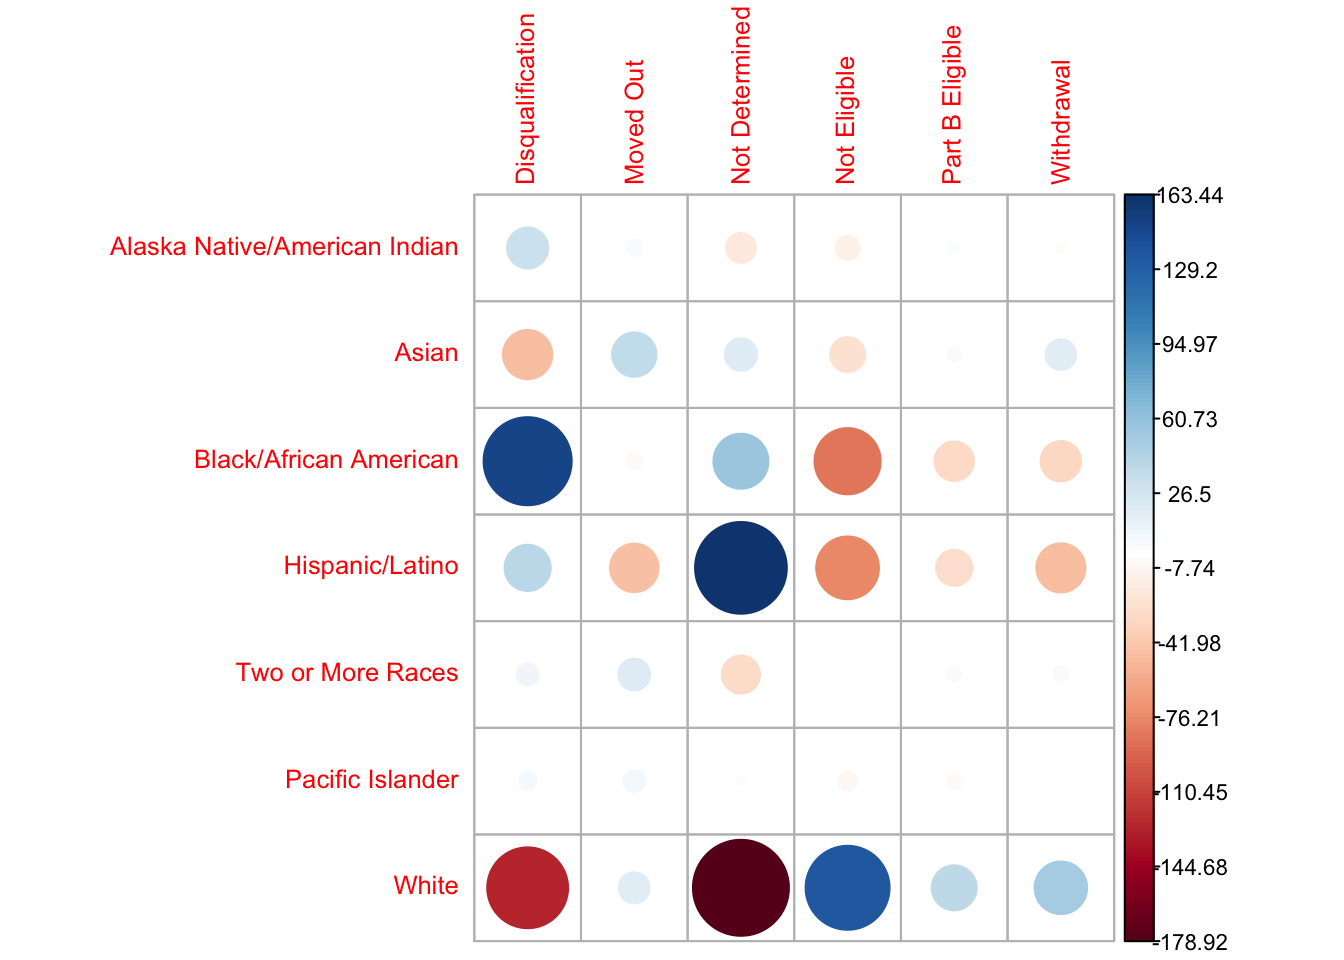
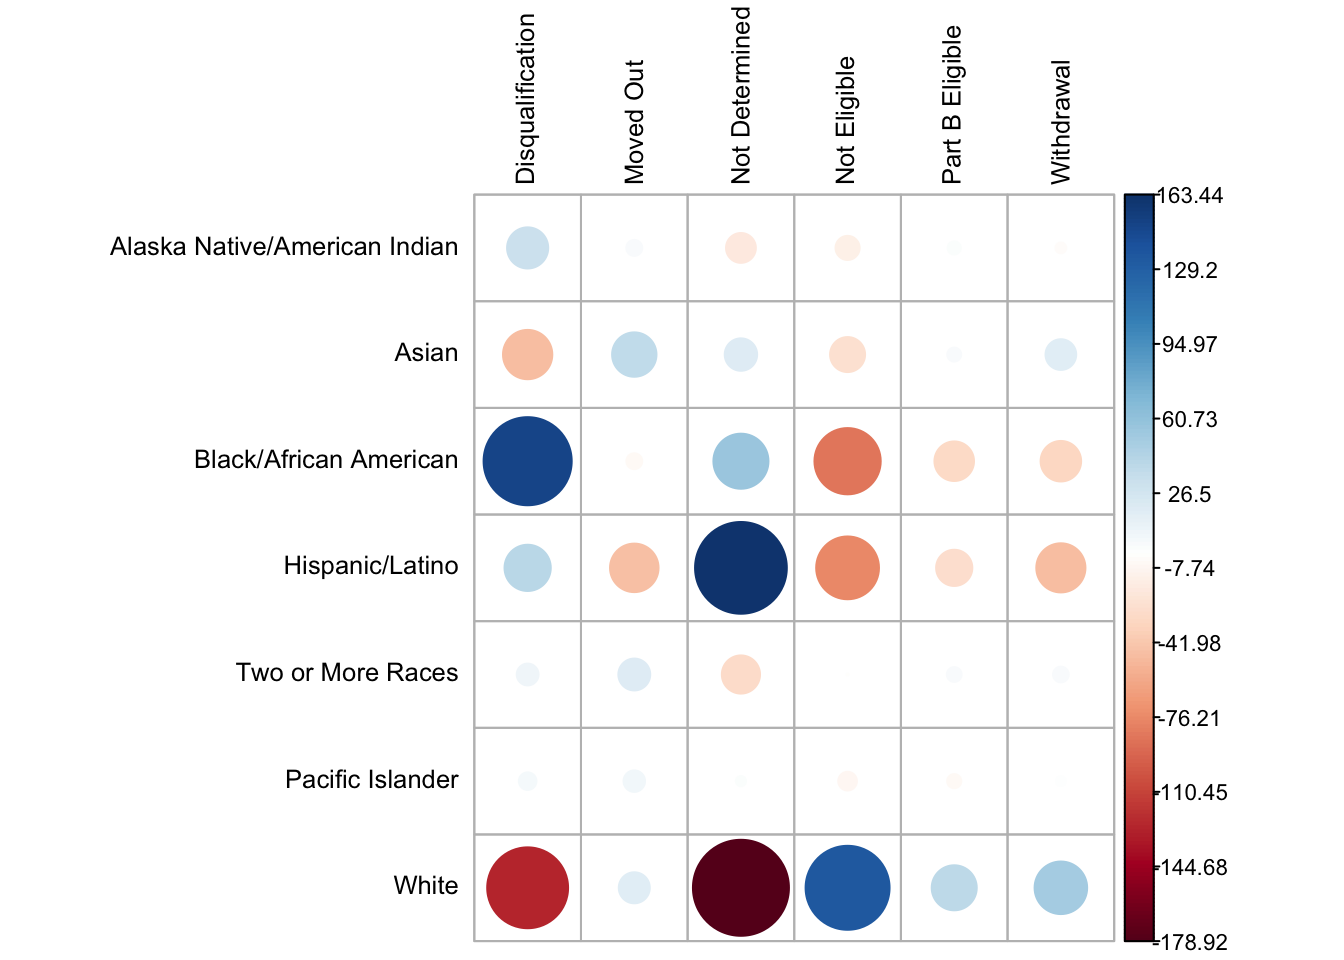
Minor changes - viz_3 corrplot() black letters etc.

diff --git a/docs/index.html b/docs/index.html
@@ -200,7 +200,7 @@ window.Quarto = {
 
 <div class="quarto-listing quarto-listing-container-default" id="listing-listing">
 <div class="list quarto-listing-default">
-<div class="quarto-post image-right" data-index="0" data-categories="ZGF0YSUyMHZpc3VhbGl6YXRpb24lMkNjb2RlJTJDYW5hbHlzaXM=" data-listing-date-sort="1740988800000" data-listing-file-modified-sort="1741229969576" data-listing-date-modified-sort="NaN" data-listing-reading-time-sort="7" data-listing-word-count-sort="1243">
+<div class="quarto-post image-right" data-index="0" data-categories="ZGF0YSUyMHZpc3VhbGl6YXRpb24lMkNjb2RlJTJDYW5hbHlzaXM=" data-listing-date-sort="1740988800000" data-listing-file-modified-sort="1741304493953" data-listing-date-modified-sort="NaN" data-listing-reading-time-sort="7" data-listing-word-count-sort="1219">
 <div class="thumbnail">
 <p><a href="./posts/viz_4/index.html" class="no-external"></a></p><a href="./posts/viz_4/index.html" class="no-external">
 <p><img loading="lazy" src="./posts/viz_4/or_us_white_ci_timesnewroman.png" class="thumbnail-image"></p>
@@ -239,10 +239,10 @@ Maiko Hata
 </a>
 </div>
 </div>
-<div class="quarto-post image-right" data-index="1" data-categories="dmlzdWFsaXphdGlvbiUyQ2NvZGUlMkNhbmFseXNpcw==" data-listing-date-sort="1740729600000" data-listing-file-modified-sort="1741229969575" data-listing-date-modified-sort="NaN" data-listing-reading-time-sort="4" data-listing-word-count-sort="634">
+<div class="quarto-post image-right" data-index="1" data-categories="dmlzdWFsaXphdGlvbiUyQ2NvZGUlMkNhbmFseXNpcw==" data-listing-date-sort="1740729600000" data-listing-file-modified-sort="1741303913930" data-listing-date-modified-sort="NaN" data-listing-reading-time-sort="4" data-listing-word-count-sort="640">
 <div class="thumbnail">
 <p><a href="./posts/viz_3/index.html" class="no-external"></a></p><a href="./posts/viz_3/index.html" class="no-external">
-<p><img loading="lazy" src="./posts/viz_3/race and exit corrplot.png" class="thumbnail-image"></p>
+<p><img loading="lazy" src="./posts/viz_3/race and exit corrplot.jpg" class="thumbnail-image"></p>
 </a><p><a href="./posts/viz_3/index.html" class="no-external"></a></p>
 </div>
 <div class="body">
@@ -278,7 +278,7 @@ Maiko Hata
 </a>
 </div>
 </div>
-<div class="quarto-post image-right" data-index="2" data-categories="dmlzdWFsaXphdGlvbiUyQ2NvZGUlMkNhbmFseXNpcw==" data-listing-date-sort="1740643200000" data-listing-file-modified-sort="1741232524809" data-listing-date-modified-sort="NaN" data-listing-reading-time-sort="9" data-listing-word-count-sort="1682">
+<div class="quarto-post image-right" data-index="2" data-categories="dmlzdWFsaXphdGlvbiUyQ2NvZGUlMkNhbmFseXNpcw==" data-listing-date-sort="1740643200000" data-listing-file-modified-sort="1741303473193" data-listing-date-modified-sort="NaN" data-listing-reading-time-sort="9" data-listing-word-count-sort="1655">
 <div class="thumbnail">
 <p><a href="./posts/viz_2/index.html" class="no-external"></a></p><a href="./posts/viz_2/index.html" class="no-external">
 <p><img loading="lazy" src="./posts/viz_2/plot_cc_2.jpg" class="thumbnail-image"></p>
@@ -317,7 +317,7 @@ Maiko Hata
 </a>
 </div>
 </div>
-<div class="quarto-post image-right" data-index="3" data-categories="dmlzdWFsaXphdGlvbiUyQ2NvZGUlMkNhbmFseXNpcw==" data-listing-date-sort="1740556800000" data-listing-file-modified-sort="1741229969570" data-listing-date-modified-sort="NaN" data-listing-reading-time-sort="2" data-listing-word-count-sort="297">
+<div class="quarto-post image-right" data-index="3" data-categories="dmlzdWFsaXphdGlvbiUyQ2NvZGUlMkNhbmFseXNpcw==" data-listing-date-sort="1740556800000" data-listing-file-modified-sort="1741303287478" data-listing-date-modified-sort="NaN" data-listing-reading-time-sort="2" data-listing-word-count-sort="278">
 <div class="thumbnail">
 <p><a href="./posts/viz_1/index.html" class="no-external"></a></p><a href="./posts/viz_1/index.html" class="no-external">
 <p><img loading="lazy" src="./posts/viz_1/kable.jpg" class="thumbnail-image"></p>
@@ -342,7 +342,7 @@ analysis
 </div>
 </div>
 <div class="listing-description">
-<a href="./posts/viz_1/index.html" class="no-external">This is the first step in my visualization journey. I created a simple kable table using data from the Office of Special Education Programs (OSEP).</a>
+<a href="./posts/viz_1/index.html" class="no-external">This is the first step in my visualization series. I created a simple kable table using data from the Office of Special Education Programs (OSEP).</a>
 </div>
 </div>
 <div class="metadata">
@@ -356,7 +356,7 @@ Maiko Hata
 </a>
 </div>
 </div>
-<div class="quarto-post image-right" data-index="4" data-categories="bmV3cyUyQ2NvZGUlMkNhbmFseXNpcw==" data-listing-date-sort="1740384000000" data-listing-file-modified-sort="1741229969569" data-listing-date-modified-sort="NaN" data-listing-reading-time-sort="2" data-listing-word-count-sort="225">
+<div class="quarto-post image-right" data-index="4" data-categories="bmV3cyUyQ2NvZGUlMkNhbmFseXNpcw==" data-listing-date-sort="1740384000000" data-listing-file-modified-sort="1741303982509" data-listing-date-modified-sort="NaN" data-listing-reading-time-sort="2" data-listing-word-count-sort="225">
 <div class="thumbnail">
 <p><a href="./posts/viz_0/index.html" class="no-external"></a></p><a href="./posts/viz_0/index.html" class="no-external">
 <p><img loading="lazy" src="./posts/viz_0/family_of_four.jpg" class="thumbnail-image"></p>

diff --git a/docs/posts/viz_3/index.html b/docs/posts/viz_3/index.html
@@ -188,7 +188,7 @@ pre > code.sourceCode > span > a:first-child::before { text-decoration: underlin
 <p>Here, I performed a chi-square test and used standardized residuals to interpret the results. I visualized the findings with <code>corrplot()</code>, one of my favorite packages.</p>
 <p>Chi-square test is used to determine if the distribution of a sample is different from what we would expect by chance (Agresti, 2013). It helps researchers understand whether the differences between observed and expected counts are likely due to random variation (Morgan et al., 2020). Standardized residuals provide additional insight by showing how much the observed counts differ from the expected ones, considering the influence of independent variables on dependent variables (Chatterjee, 2011).</p>
 <p>This is when I truly understood the power and flexibility of R, as it allowed me to present the story of the data through clear and intuitive visualizations.</p>
-<p>Do you notice how group 2 is overrepresented and group 7 is underrepresented in Attempts to Contact Unsuccessful (“Disqualification”)? Also, group 7 is noticeably underrepresented in Part B Eligibility Not Determined (“Not Determined”), but the same group is overrepresented in Complete or Not Eligible (“Not Eligible”). Let’s take a look at who these groups are.</p>
+<p>Do you notice how group 2 is over-represented and group 7 is under-represented in Attempts to Contact Unsuccessful (“Disqualification”)? Also, group 7 is noticeably underrepresented in Part B Eligibility Not Determined (“Not Determined”), but the same group is over-represented in Complete or Not Eligible (“Not Eligible”). Let’s see who these groups are.</p>
 <p>Here is my first attempt. Even though it’s a bit messy, I was really impressed that I could run this analysis and create the visualization so easily.</p>
 <div class="cell">
 <details class="code-fold">
@@ -238,16 +238,22 @@ pre > code.sourceCode > span > a:first-child::before { text-decoration: underlin
 </div>
 </div>
 </div>
-<p>I finally settled on this version after moving the label numbers a bit further out to make them easier to read. I also reordered the exit categories alphabetically at the top, which makes the chart look a bit different from my original attempt.</p>
+<p>I finally settled on this version, where I:</p>
+<ul>
+<li><p>Changed the letter color to black as the red was unnecessarily alarming</p></li>
+<li><p>Moved the label numbers further out for easier reading</p></li>
+<li><p>Reordered the exit categories alphabetically.</p></li>
+</ul>
 <div class="cell">
 <details class="code-fold">
 <summary>Code</summary>
 <div class="sourceCode cell-code" id="cb4"><pre class="sourceCode r code-with-copy"><code class="sourceCode r"><span id="cb4-1"><a href="#cb4-1" aria-hidden="true" tabindex="-1"></a><span class="fu">corrplot</span>(chi_results<span class="sc">$</span>stdres, </span>
 <span id="cb4-2"><a href="#cb4-2" aria-hidden="true" tabindex="-1"></a>         <span class="at">is.cor =</span> <span class="cn">FALSE</span>, </span>
 <span id="cb4-3"><a href="#cb4-3" aria-hidden="true" tabindex="-1"></a>         <span class="at">tl.cex =</span> <span class="fl">0.8</span>, </span>
-<span id="cb4-4"><a href="#cb4-4" aria-hidden="true" tabindex="-1"></a>         <span class="at">cl.cex =</span> <span class="fl">0.7</span>,     </span>
-<span id="cb4-5"><a href="#cb4-5" aria-hidden="true" tabindex="-1"></a>         <span class="at">cl.offset =</span> <span class="dv">1</span>,    </span>
-<span id="cb4-6"><a href="#cb4-6" aria-hidden="true" tabindex="-1"></a>         <span class="at">cl.ratio =</span> <span class="fl">0.2</span>)    </span></code><button title="Copy to Clipboard" class="code-copy-button"><i class="bi"></i></button></pre></div>
+<span id="cb4-4"><a href="#cb4-4" aria-hidden="true" tabindex="-1"></a>         <span class="at">tl.col =</span> <span class="st">"black"</span>, </span>
+<span id="cb4-5"><a href="#cb4-5" aria-hidden="true" tabindex="-1"></a>         <span class="at">cl.cex =</span> <span class="fl">0.7</span>,     </span>
+<span id="cb4-6"><a href="#cb4-6" aria-hidden="true" tabindex="-1"></a>         <span class="at">cl.offset =</span> <span class="dv">1</span>,    </span>
+<span id="cb4-7"><a href="#cb4-7" aria-hidden="true" tabindex="-1"></a>         <span class="at">cl.ratio =</span> <span class="fl">0.2</span>)    </span></code><button title="Copy to Clipboard" class="code-copy-button"><i class="bi"></i></button></pre></div>
 </details>
 <div class="cell-output-display">
 <div>

diff --git a/docs/posts/viz_2/index.html b/docs/posts/viz_2/index.html
@@ -187,7 +187,7 @@ pre > code.sourceCode > span > a:first-child::before { text-decoration: underlin
 
 
 
-<p>This is the second part of my data visualization journey. For this, I used the same dataset as in the previous post, which showed racial representation in Early Intervention across the country. I compared that data to racial representation in Oregon, using information from the same <a href="https://data.ed.gov/dataset/idea-section-618-data-products-static-tables-part-c">OSEP website</a>. I combined data from 2013 to 2022 to get the most statistical power for later analysis.</p>
+<p>This is the second part of my data visualization journey. For this, I used the same dataset as in the previous post, which showed racial representation in Early Intervention (EI) across the U.S. I compared that data to racial representation in Oregon, using information from the same <a href="https://data.ed.gov/dataset/idea-section-618-data-products-static-tables-part-c">OSEP website</a>. I combined data from 2013 to 2022 to get the most statistical power for later analysis.</p>
 <p>First, I created a bar chart using <code>ggplot()</code> with the <code>geom_bar()</code> function.</p>
 <div class="cell">
 <details class="code-fold">
@@ -211,7 +211,7 @@ pre > code.sourceCode > span > a:first-child::before { text-decoration: underlin
 </div>
 </div>
 </div>
-<p>Here is an example of how labeling can be completely inappropriate. However, I appreciate using the viridis color palette with <code>scale_fill_viridis_d()</code>, as it helps make colors more accessible for people with color perception differences. I also included labels for the different groups to show the color scheme more clearly.</p>
+<p>Here is an example of how labeling can be completely inappropriate. However, I appreciate using the viridis color palette with <code>scale_fill_viridis_d()</code>, as it helps make colors more accessible for people with color perception differences.</p>
 <div class="cell">
 <details class="code-fold">
 <summary>Code</summary>
@@ -237,7 +237,7 @@ pre > code.sourceCode > span > a:first-child::before { text-decoration: underlin
 </div>
 </div>
 </div>
-<p>I really enjoy how easy it is to play with different types of plots that <code>ggplot()</code> offers - all it takes is just minor changes to the codes.</p>
+<p>I really enjoy how easy it is to play with different types of plots that <code>ggplot()</code> offers.</p>
 <div class="cell">
 <details class="code-fold">
 <summary>Code</summary>
@@ -293,7 +293,7 @@ pre > code.sourceCode > span > a:first-child::before { text-decoration: underlin
 </div>
 </div>
 </div>
-<p>After making adjustments to show the data more clearly and accurately, here it is—the final version that shows the data best! Flipping the X and Y axes helps readers understand the categories more easily, and the data labels make it clearer to see the exact differences between the national data and Oregon’s data. I also used the Okabe-Ito color palette, assigning specific colors for both the national data and Oregon’s data to maintain consistency in future visualizations.</p>
+<p>After making adjustments to show the data more clearly and accurately, here is the final version that shows the data best! Flipping the X and Y axes helps readers understand the categories more easily, and the data labels make it clearer to see the exact differences between the national data and Oregon’s data. I also assigned specific colors from the <code>viridis</code> color pallette for the national and Oregon’s data to maintain consistency in future visualizations.</p>
 <div class="cell">
 <details class="code-fold">
 <summary>Code</summary>

diff --git a/docs/posts/viz_4/index.html b/docs/posts/viz_4/index.html
@@ -245,7 +245,7 @@ pre > code.sourceCode > span > a:first-child::before { text-decoration: underlin
 </div>
 </div>
 </div>
-<p>However, it is important to use a forest plot for odds ratios because it is a recommended approach. This is because forest plots can show confidence intervals, making it easier to understand the precision of each estimate. They also illustrate odds ratios more clearly than bar charts. To create a forest plot, we need to prepare a table that includes not only the odds ratios but also the confidence intervals for each comparison.</p>
+<p>However, using a forest plot for odds ratio has traditionally been considered appropriate, because they can show confidence intervals, making it easier to understand the precision of each estimate. To create a forest plot, we need to prepare a table that includes not only the odds ratios but also the confidence intervals for each comparison.</p>
 <p>Here, I used <code>geom_errorbar()</code> from <code>ggplot()</code>.</p>
 <div class="cell">
 <details class="code-fold">
@@ -292,8 +292,8 @@ pre > code.sourceCode > span > a:first-child::before { text-decoration: underlin
 <li><p>Made the the X-axis labels larger</p></li>
 <li><p>Added data labels above the dots.</p></li>
 </ul>
-<p>Do you notice how the odds ratios highlight the over- and under-representation of different groups in the “Disqualification” category? (Just a reminder, this category represents cases where agencies “lose contact” with families, leading to disqualification.)</p>
-<p>Moving forward, I plan to re-analyze the same dataset by comparing each group to the overall category average across all races. This way, I can avoid using White children and families as the standard for comparison.</p>
+<p>Do you see how the odds ratios highlight the over- and under-representations in the “Disqualification” category? (Just a reminder, this category represents cases where agencies “lose contact” with families, leading to disqualification.)</p>
+<p>Moving forward, I plan to re-analyze the same dataset by comparing each group to the overall category average across all races. This way, I can avoid using White children and families as the norm for comparison.</p>
 <div class="cell">
 <details class="code-fold">
 <summary>Code</summary>
@@ -331,8 +331,8 @@ pre > code.sourceCode > span > a:first-child::before { text-decoration: underlin
 </div>
 </div>
 </div>
-<p>For my dissertation, I will examine how infants and toddlers from different racial groups are represented in Early Intervention (EI) compared to census data. I will also conduct chi-square analyses with adjusted standardized residuals to explore exit patterns in ODE data based on children’s home language(s). Additionally, I will share extensive quantitative data to amplify the voices of the families highlighted in my literature review.</p>
-<p>Thank you for reading, and feel free to stay connected through <a href="https://www.linkedin.com/in/maikohata/">my LinkedIn page</a>!</p>
+<p>For my dissertation, I will continue by examining how infants and toddlers from different racial groups are represented in Early Intervention (EI) compared to census data. I will also conduct chi-square analyses with adjusted standardized residuals to explore exit patterns based on children’s home language(s). Additionally, a comprehensive literature review incorporating both quantitative and qualitative studies will help amplify the voices of the families.</p>
+<p>Thank you for reading, and please stay connected through <a href="https://www.linkedin.com/in/maikohata/">my LinkedIn page</a>!</p>
 
 
 

diff --git a/docs/posts/viz_1/index.html b/docs/posts/viz_1/index.html
@@ -187,7 +187,7 @@ pre > code.sourceCode > span > a:first-child::before { text-decoration: underlin
 
 
 
-<p>This is the first step in my visualization journey. I created a simple kable table using data from the Office of Special Education Programs (<a href="https://data.ed.gov/dataset/idea-section-618-data-products-static-tables-part-c">OSEP</a>).</p>
+<p>This is the first step in my visualization series. I created a simple kable table using data from the Office of Special Education Programs (<a href="https://data.ed.gov/dataset/idea-section-618-data-products-static-tables-part-c">OSEP</a>).</p>
 <p>To give some background, my dissertation will focus on equitable access to <a href="https://www.cdc.gov/ncbddd/actearly/parents/states.html">Early Intervention (EI)</a> for different groups. Some of the visualizations in this blog will be adjusted to allow for stronger statistical analysis, such as by incorporating census data.</p>
 <p>Here’s what my dataset looked like after I finished wrangling the data:</p>
 <div class="cell">
@@ -209,7 +209,7 @@ pre > code.sourceCode > span > a:first-child::before { text-decoration: underlin
 # ℹ 2 more variables: `Part B Eligible` &lt;dbl&gt;, Withdrawn &lt;dbl&gt;</code></pre>
 </div>
 </div>
-<p>This may look like a simple visualization, but just a few months ago, I was completely new to R, RStudio, and GitHub. It took a lot of work to clean up the data to get here! I used many functions for data wrangling, including <code>filter()</code>, <code>select()</code>, <code>mutate()</code>, <code>bind_rows()</code>, <code>mutate()</code>, <code>group_by()</code>, <code>pivot_longer()</code>, <code>pivot_wider()</code>, and <code>summarize()</code>.</p>
+<p>This may look simple, but just a few months ago, I was completely new to R, RStudio, and GitHub. I used many functions for data wrangling, including <code>filter()</code>, <code>select()</code>, <code>mutate()</code>, <code>bind_rows()</code>, <code>mutate()</code>, <code>group_by()</code>, <code>pivot_longer()</code>, <code>pivot_wider()</code>, and <code>summarize()</code>.</p>
 <div class="cell">
 <details class="code-fold">
 <summary>Code</summary>
@@ -306,7 +306,7 @@ pre > code.sourceCode > span > a:first-child::before { text-decoration: underlin
 
 </div>
 </div>
-<p>I will build on this simple <code>kable()</code> table to start analyzing the data more deeply. But first, I will show how disparities appear across the United States, where racially marginalized children are often underserved in Early Intervention, unlike in K-12 special education.</p>
+<p>I will build on this simple table to start analyzing the data more deeply. But first, I will show how disparities appear across the United States, where racially marginalized children are often under-served in EI, unlike in K-12 special education.</p>
 
 
 

diff --git a/docs/about.html b/docs/about.html
@@ -122,7 +122,7 @@ ul.task-list li input[type="checkbox"] {
 <p>Hi, I’m Maiko (here’s <a href="https://namedrop.io/maikohata">how to pronounce my name</a>). I created this blog as part of my <a href="https://education.uoregon.edu/">Educational Data Science</a> specialization at the University of Oregon, where I am a doctorate student in educational leadership.</p>
 <p>I also work as an Autism &amp; Behavior Consultant at an outreach agency, <a href="https://earlychildhoodcares.uoregon.edu/">Early Childhood CARES</a>, in the College of Education. This role motivated me to learn more so I can better support infants and toddlers who experience Autism and/or Developmental Disability and their families.</p>
 <p>For more information, please check out my <a href="https://www.linkedin.com/in/maikohata">LinkedIn</a> page.</p>
-<p>オレゴン大学博士課程（教育）に在籍している畑 麻衣子です。<a href="https://education.uoregon.edu/">Educational Data Science</a>スペシャライゼーションの一環で、当サイトを作成しました。オレゴン大学<a href="https://earlychildhoodcares.uoregon.edu/">Early Childhood CARES</a>にて、療育・自閉症のスペシャリストとして勤務しています。大阪高槻出身、大阪弁が恋しいです。</p>
+<p>オレゴン大学博士課程（教育リーダーシップ）に在籍している畑 麻衣子です。<a href="https://education.uoregon.edu/">Educational Data Science</a> スペシャライゼーションの一環として、当サイトを作成しました。オレゴン大学 <a href="https://earlychildhoodcares.uoregon.edu/">Early Childhood CARES</a> にて、療育・自閉症のスペシャリストとして勤務しています。博士論文のトピックは療育における教育機会と格差です。大阪高槻出身、大阪弁が恋しいです。</p>
 <p><a href="https://www.linkedin.com/in/maikohata">リンクトインはこちら</a></p>
 
 

diff --git a/docs/posts/viz_0/index.html b/docs/posts/viz_0/index.html
@@ -152,7 +152,7 @@ ul.task-list li input[type="checkbox"] {
 
 
 <section id="data-visualization-for-equitable-ei-access" class="level2">
-<h2 class="anchored" data-anchor-id="data-visualization-for-equitable-ei-access">Data Visualization for Equitable EI Access</h2>
+<h2 class="anchored" data-anchor-id="data-visualization-for-equitable-ei-access">Data Visualization for equitable EI access</h2>
 <p>In this data visualization and storytelling portfolio, I conducted a secondary data analysis of extant data. These data were published by the <a href="https://data.ed.gov/dataset/idea-section-618-data-products-static-tables-part-c">Office of Special Education Programs (OSEP)</a> and <a href="https://www.oregon.gov/ode/reports-and-data/SpEdReports/Pages/default.aspx">Oregon Department of Education (ODE)</a>. OSEP collects annual data on children, aged 0 to 2, who have stopped receiving <a href="https://www.cdc.gov/ncbddd/actearly/parents/states.html">Early Intervention (EI)</a> services, with information categorized by gender, race, and ethnicity.</p>
 <div class="quarto-figure quarto-figure-center">
 <figure class="figure">
